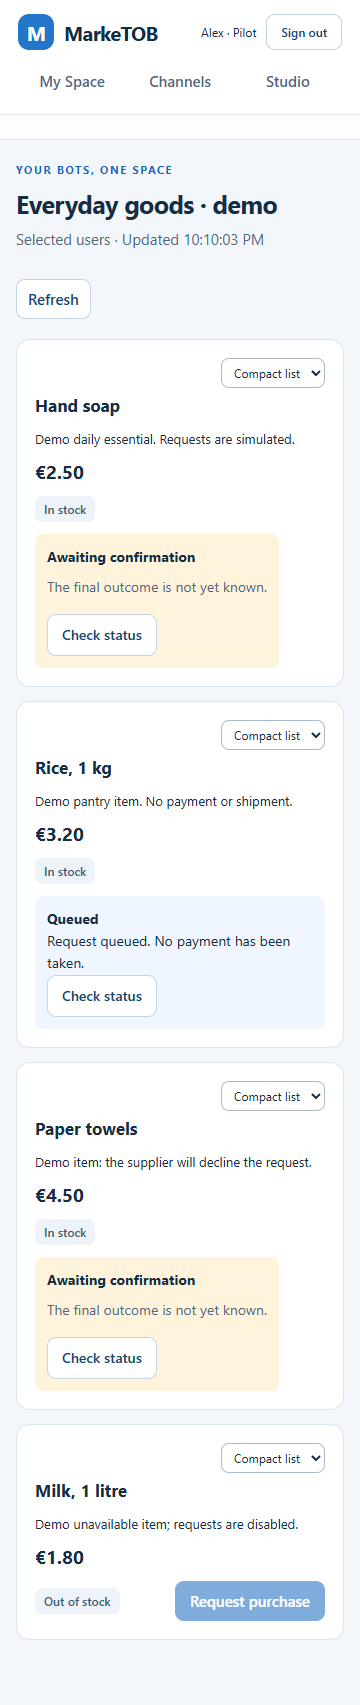
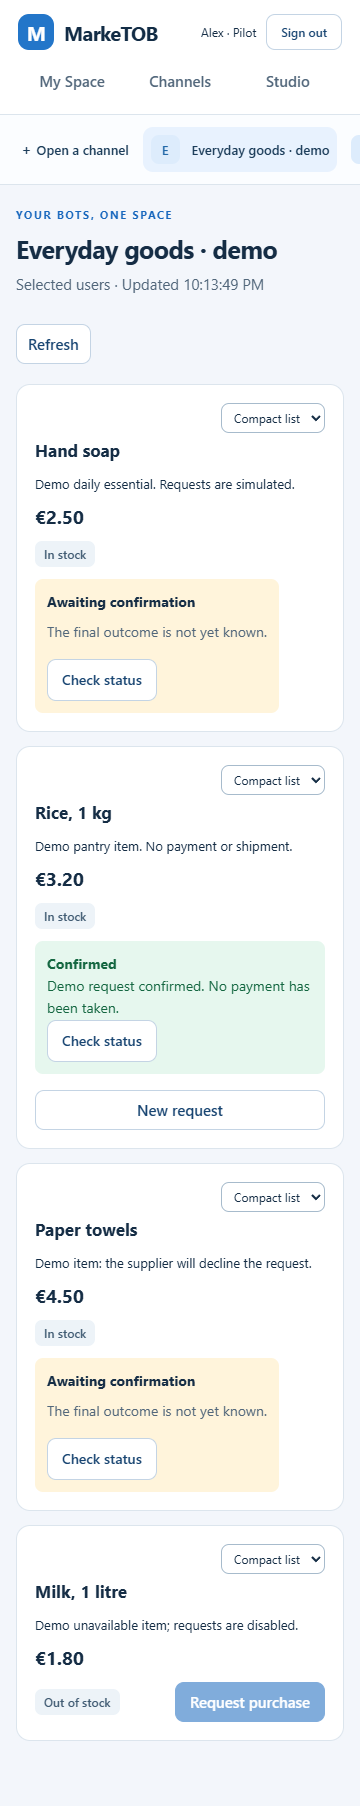
docs: accept PM-013 and start Studio stage

diff --git a/docs/STATUS.md b/docs/STATUS.md
@@ -1,15 +1,15 @@
 # Текущее состояние
 
-**Дата:** 22 октября 2026. **Завершено:** 12/24 задач пилота, 0/4 развития.
+**Дата:** 22 октября 2026. **Завершено:** 13/24 задач пилота, 0/4 развития.
 **G02:** закрыта, все 12 ответов приняты. **После G02:** 4/4, PM-009–012 завершены.
-**G03:** закрыта, все 13 ответов сохранены. Разрешён весь блок PM-013–016. После G03: 0/4; PM-013 in_progress. Следующая контрольная точка G04 после PM-016.
+**G03:** закрыта, все 13 ответов сохранены. Разрешён весь блок PM-013–016. После G03: 1/4; PM-013 done, PM-014 in_progress. Следующая контрольная точка G04 после PM-016.
 
 - Работают локальные аккаунты, сессии, B2B и права доступа; регистрация ботов и индивидуальные ключи; приём данных и хранение истории/квитанций по 30 дней.
 - Готовы версии оформления, публикация и откат, snapshots с проверкой прав и ETag; Request purchase, GET/ACK/result, unknown и сверка результатов.
 - Python SDK, независимые каталог/RSS-боты, инструкция запуска и Docker profile проверены.
 - [CI PM-012](https://github.com/Villentretermert/ProjectMarket/actions/runs/39835253441): все 4 jobs PASS, 117 тестов, реальные сбои API/БД/worker/ботов и восстановление.
 - Локальный baseline: 100 ботов, 10 читающих сессий, 3 000/3 000 сообщений за 180,139 с; p95 приёма 295,02 мс, чтения 253,76 мс. После restart сохранены все 3 000 receipt/outbox. Это API baseline, не полный L2/UI SLO.
-- Web PM-003 остаётся макетом. Следующий блок PM-013–016: Web, Studio/команды, избранное, My Space. Командные роли обязательны до внешнего пилота.
+- PM-013: рабочий Web /app/, local login, каналы, новости/товары/графики, заявки и восстановление после потери ответа. [CI](https://github.com/Villentretermert/ProjectMarket/actions/runs/39846617703) 118 tests + 14 Chromium сценариев PASS, Edge PASS. Далее PM-014 Studio/команды, PM-015 избранное, PM-016 My Space, затем G04.
 - Android SDK/сборка/USB и Google/Firebase/облако отложены владельцем. Docker локально отсутствует, проверен в Linux CI. Переносимая PostgreSQL работает на loopback:55432.
 - Доставка outbox в клиент — PM-018, backup — PM-021, полный L2/burst/monitoring — PM-022, приватность и релизная проверка — PM-023.
 

diff --git a/docs/tasks/PM-013.md b/docs/tasks/PM-013.md
@@ -2,7 +2,7 @@
 
 - **Порядок:** 13; этап 4 — Web, Studio и личные страницы.
 - **Приоритет:** P0.
-- **Состояние:** in_progress.
+- **Состояние:** done.
 - **Зависимости:** PM-003, PM-006, PM-009, PM-012, G03.
 - **Открытые вводные:** использовать зафиксированные решения; новые блокеры описывать явно.
 - **После этапа:** G04 — презентация и минимум 10 отдельных вопросов.
@@ -27,10 +27,10 @@
 
 ## Критерии приёмки
 
-- [ ] Данные от двух ботов отображаются в браузере; закрытый канал требует доступа; действие показывает фактический статус. Нет горизонтального переполнения на телефоне, основные сценарии работают с клавиатуры.
-- [ ] Проверки выполнены и их фактические результаты сохранены.
-- [ ] CHANGELOG, STATUS, документация и GitHub issue обновлены; нет секретов в поставке.
-- [ ] Пояснительная записка `docs/task-results/PM-013.md` содержит изменения, ограничения и доказательства.
+- [x] Данные от двух ботов отображаются в браузере; закрытый канал требует доступа; действие показывает фактический статус. Нет горизонтального переполнения на телефоне, основные сценарии работают с клавиатуры.
+- [x] Проверки выполнены и их фактические результаты сохранены.
+- [x] CHANGELOG, STATUS, документация и GitHub issue обновлены; нет секретов в поставке.
+- [x] Пояснительная записка `docs/task-results/PM-013.md` содержит изменения, ограничения и доказательства.
 
 ## Проверка
 
@@ -38,4 +38,4 @@
 
 ## Фактический результат
 
-Не выполнено. Commit/PR, артефакты и результаты проверки будут добавлены после реализации. Эта issue не закрывается публикацией плана.
+Выполнено: [отчёт и реальные экраны](../task-results/PM-013.md). Код 79a3f979, [CI 39846617703](https://github.com/Villentretermert/ProjectMarket/actions/runs/39846617703): все четыре jobs PASS, 118 Python/PG tests и 14 Chromium сценариев. Edge локально PASS. Android не проверялся.

diff --git a/README.md b/README.md
@@ -2,7 +2,7 @@
 
 Платформа витрин для ботов: B2B владелец публикует страницу с данными своего сервиса, B2C пользователь сохраняет страницы и собирает собственный интерфейс из разрешённых блоков.
 
-**Состояние на 22 октября 2026:** завершены PM-001–012. Работают локальные аккаунты и права, боты/ключи, приём данных, версии/публикация/откат каналов и чтение актуальных данных с проверкой доступа. Заявки, GET/ACK/result и восстановление после рестарта проверены; SDK и два независимых бота готовы; финальный CI: 117 tests и все четыре jobs PASS. [G02](docs/reviews/G02/README.md) закрыта; G03 закрыта после 13 ответов, блок PM-013–016 разрешён. Рабочий Web проходит финальную приёмку; Android и облако отложены. Интерфейс продукта — английский.
+**Состояние на 22 октября 2026:** завершены PM-001–013. Работают локальные аккаунты и права, боты/ключи, приём данных, версии/публикация/откат каналов и чтение актуальных данных с проверкой доступа. Заявки, GET/ACK/result и восстановление после рестарта проверены; SDK и два независимых бота готовы; финальный CI: 117 tests и все четыре jobs PASS. [G02](docs/reviews/G02/README.md) закрыта; G03 закрыта после 13 ответов, блок PM-013–016 разрешён. Рабочий Web принят: 118 тестов и 14 браузерных сценариев в CI; PM-014 Studio начата; Android и облако отложены. Интерфейс продукта — английский.
 
 ## Запустить локальный backend
 

diff --git a/CHANGELOG.md b/CHANGELOG.md
@@ -188,3 +188,7 @@ PM-006: все четыре CI jobs PASS на `94a2cf3`, локально 58 tes
 ## 2026-10-22 · PM-013 · Working Web
 
 Web /app/ включён в Python API/wheel/Docker: local login, каналы, news/product/chart, подтверждение Request purchase, реальные статусы и восстановление того же запроса после потери ответа. Безопасный текст/HTTPS, CSP, loading/empty/error/offline, адаптивность и keyboard. BBC World вместо NASA по G03, list/article по умолчанию. 118 Python/PG tests PASS; 14 браузерных сценариев Edge PASS, 360/1440px, SQL проверка отсутствия дубля. CI Linux/Docker/Chromium ещё ожидается. Studio/My Space пока явно отмечены до следующих задач.
+
+## 2026-10-22 · PM-013 accepted / PM-014 started
+
+CI 39846617703 на 79a3f979: Ubuntu/Windows, PostgreSQL/Chromium и Docker PASS. 118 distinct Python/PG tests, 14 browser scenarios. Скриншоты пересняты после загрузки sidebar; повторный Edge PASS. PM-013 закрыта, счётчик 13/24, после G03 1/4. Начата PM-014 по разрешению полного блока.

diff --git a/docs/task-results/PM-013.md b/docs/task-results/PM-013.md
@@ -1,7 +1,6 @@
 # PM-013 · Working Web client
 
-Implementation is ready for final CI acceptance; the task remains in progress until
-that evidence is recorded.
+Accepted on 22 October 2026. Code commit `79a3f979`; [CI 39846617703](https://github.com/Villentretermert/ProjectMarket/actions/runs/39846617703) passed all four jobs (Ubuntu, Windows, PostgreSQL/Chromium and Docker).
 
 ## What changed
 
@@ -44,4 +43,4 @@ while its tab request reference remains. The test network errors are deliberate
 browser interception; backend outage/revocation behavior is covered in PM-006–012.
 
 [Launch instructions](../setup/WEB.md). 118 Python/PostgreSQL tests passed locally (117.12s); Ruff and mypy Windows/Linux passed.
-14 browser scenarios passed in Edge. Commit/CI are recorded when acceptance completes.
+14 browser scenarios passed in Edge. CI: 70 unit/contract + 48 PostgreSQL tests (118 distinct tests), 14 Chromium scenarios, backend fault/restart and 60s load checks passed. Docker smoke also verifies every packaged Web module. After CI, screenshot capture was adjusted to await the sidebar; the unchanged product runtime passed the same 14 Edge scenarios again.

diff --git a/docs/GITHUB_ISSUES.md b/docs/GITHUB_ISSUES.md
@@ -19,8 +19,8 @@
 | PM-011 | [#13](https://github.com/Villentretermert/ProjectMarket/issues/13) | task | done | closed |
 | PM-012 | [#14](https://github.com/Villentretermert/ProjectMarket/issues/14) | task | done | closed |
 | G03 | [#15](https://github.com/Villentretermert/ProjectMarket/issues/15) | checkpoint | done | closed |
-| PM-013 | [#16](https://github.com/Villentretermert/ProjectMarket/issues/16) | task | in_progress | open |
-| PM-014 | [#17](https://github.com/Villentretermert/ProjectMarket/issues/17) | task | planned | open |
+| PM-013 | [#16](https://github.com/Villentretermert/ProjectMarket/issues/16) | task | done | closed |
+| PM-014 | [#17](https://github.com/Villentretermert/ProjectMarket/issues/17) | task | in_progress | open |
 | PM-015 | [#18](https://github.com/Villentretermert/ProjectMarket/issues/18) | task | planned | open |
 | PM-016 | [#19](https://github.com/Villentretermert/ProjectMarket/issues/19) | task | planned | open |
 | G04 | [#20](https://github.com/Villentretermert/ProjectMarket/issues/20) | checkpoint | planned | open |

diff --git a/docs/ROADMAP.md b/docs/ROADMAP.md
@@ -45,8 +45,8 @@
 
 | ID | Задача | Приоритет | Зависимости | Статус |
 |---|---|---|---|---|
-| [PM-013](tasks/PM-013.md) | Общий UI runtime и работающий Web-клиент | P0 | PM-003, PM-006, PM-009, PM-012, G03 | in_progress |
-| [PM-014](tasks/PM-014.md) | B2B Studio: боты, страницы и публикация | P0 | PM-007, PM-009, PM-010, PM-013, G03 | planned |
+| [PM-013](tasks/PM-013.md) | Общий UI runtime и работающий Web-клиент | P0 | PM-003, PM-006, PM-009, PM-012, G03 | done |
+| [PM-014](tasks/PM-014.md) | B2B Studio: боты, страницы и публикация | P0 | PM-007, PM-009, PM-010, PM-013, G03 | in_progress |
 | [PM-015](tasks/PM-015.md) | B2C: ссылки на каналы, избранное и список витрин | P0 | PM-009, PM-013, G03 | planned |
 | [PM-016](tasks/PM-016.md) | My Space: личная страница и выбор визуализации | P0 | PM-004, PM-009, PM-013, PM-015, G03 | planned |
 

diff --git a/docs/tasks/PM-014.md b/docs/tasks/PM-014.md
@@ -2,7 +2,7 @@
 
 - **Порядок:** 14; этап 4 — Web, Studio и личные страницы.
 - **Приоритет:** P0.
-- **Состояние:** planned.
+- **Состояние:** in_progress.
 - **Зависимости:** PM-007, PM-009, PM-010, PM-013, G03.
 - **Открытые вводные:** использовать зафиксированные решения; новые блокеры описывать явно.
 - **После этапа:** G04 — презентация и минимум 10 отдельных вопросов.
